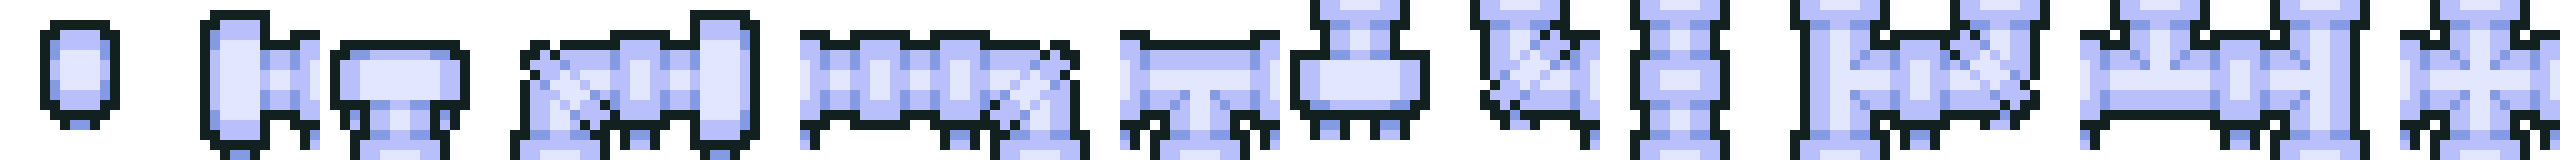
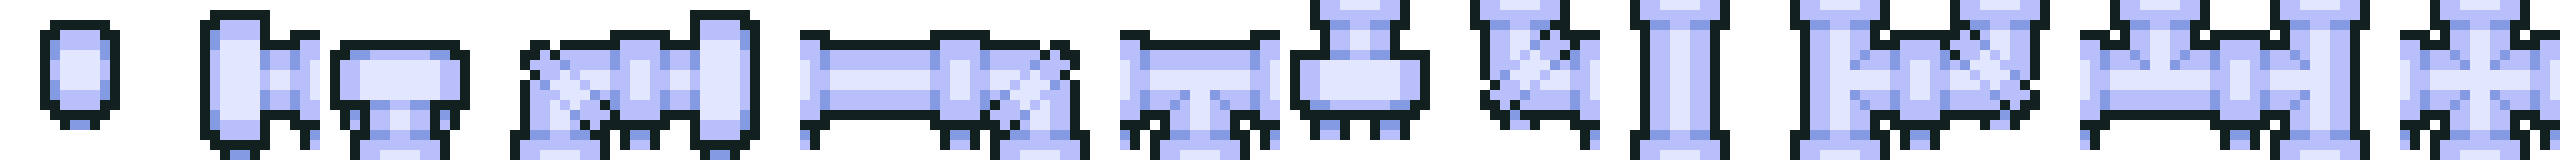
hey factory ui is basically done i think?
also fiddled with some colours :)

Changed region(s): [[0.3125, 0.1875, 0.375, 0.8125], [0.625, 0.3125, 0.6875, 0.6875]]

diff --git a/js/layers/factory_layer.js b/js/layers/factory_layer.js
@@ -1,13 +1,14 @@
-machines={
-  100:[
+fa_machine_picker={
+  1:[
     {name:"pipe"},
     {name:"crafter"},
     {name:"drill"},
+    {name:"port"},
   ]
 }
-for (const [rowi,row] of Object.entries(machines)){
+for (const [rowi,row] of Object.entries(fa_machine_picker)){
   for (const [i,machine] of Object.entries(row)){
-    machines[rowi+i]=machine
+    fa_machine_picker[`${rowi}0${Number(i)+1}`]=machine
   }
 }
 
@@ -51,10 +52,10 @@ class FA_machine {
     return machine
   }
   open(side){
-    return this.neighbor(side).IO[(side+2)%4]!=="none" && this.IO[side]!=="none"
+    return this.neighbor(side).io_port(side)!=="none" && this.IO[side]!=="none"
   }
   io_port(side){
-    return this.neighbor(side).IO[(side+2)%4]
+    return this.IO[(side+2)%4]
   }
   get_dir_sprite(){
     let spritepos=0
@@ -92,7 +93,6 @@ class FA_crafter extends FA_machine{
     ]
   }
 }
-
 class FA_drill extends FA_machine{
   constructor(pos){
     super(pos)
@@ -110,7 +110,6 @@ class FA_drill extends FA_machine{
     ]
   }
 }
-
 class FA_pipe extends FA_machine{
   constructor(pos){
     super(pos)
@@ -127,6 +126,52 @@ class FA_pipe extends FA_machine{
     return [
       {v:"IO",t:"block"},
     ]
+  }
+}
+class FA_port extends FA_machine{
+  constructor(pos){
+    super(pos)
+    this.name="port"
+    this.sprite="./port_E.png"
+    this.spritepos=0
+    this.symbol="P"+Math.floor(Math.random()*10)
+    this.IO=["open","open","open","open"]
+    this.mode="push"
+  }
+  modify_style(style){
+    style["background-position"]=`${-this.get_sprite()*100}% 0%`
+  }
+  config(){
+    return [
+      {v:"mode",t:"toggle",o:["pull","push"],c:["#249fde","#f9a31b"]},
+    ]
+  }
+  getside(){
+    let dirs=[]
+    if (this.pos%100==2){dirs.push(0)}
+    if (((this.pos/100)|0)==2){dirs.push(1)}
+    if (this.pos%100==12){dirs.push(2)}
+    if (((this.pos/100)|0)==12){dirs.push(3)}
+    if(dirs.length==1)return dirs.pop()
+    return 4
+  }
+  get_sprite(){
+    let spr=this.get_rot_sprite()
+    if(spr==16)return spr
+    spr+=this.mode=="push"?2:0
+    return spr
+  }
+  get_rot_sprite(){
+    switch (this.getside()){
+      case  0: return  1
+      case  1: return  5
+      case  2: return  9
+      case  3: return 13
+      default: return 16
+    }
+  }
+  io_port(side){
+    return (side+2)%4==this.getside()?"open":"none"
   }
 }
 
@@ -155,7 +200,7 @@ function fa_fixfactories(){
 }
 
 fa_machinenames={}
-for (const [_,machine] of Object.entries([FA_pipe,FA_crafter,FA_empty])){
+for (const [_,machine] of Object.entries([FA_pipe,FA_crafter,FA_drill,FA_port,FA_empty])){
   fa_machinenames[new machine().name]=machine
 }
 
@@ -179,10 +224,10 @@ function machineconfiglayout(){
           configlayout.push(["bad-toggle",[v,setting.o,setting.c,setting.cb],{"pointer-events":"auto"}])
           break
         case "io":
-          configlayout.push(["4way-bad-toggle",[[v+"[3]",v+"[0]",v+"[2]",v+"[1]"],["none","pull","push"],["gray","blue","orange"],function(){refreshneighbors("fa_designer",player.fa.selectedmachine.pos)}],{"pointer-events":"auto"}])
+          configlayout.push(["4way-bad-toggle",[[v+"[3]",v+"[0]",v+"[2]",v+"[1]"],["none","pull","push"],["#4a5462","#249fde","#f9a31b"],function(){refreshneighbors("fa_designer",player.fa.selectedmachine.pos)}],{"pointer-events":"auto"}])
           break
         case "block":
-          configlayout.push(["4way-bad-toggle",[[v+"[3]",v+"[0]",v+"[2]",v+"[1]"],["open","none"],["green","gray"],function(){refreshneighbors("fa_designer",player.fa.selectedmachine.pos)}],{"pointer-events":"auto"}])
+          configlayout.push(["4way-bad-toggle",[[v+"[3]",v+"[0]",v+"[2]",v+"[1]"],["open","none"],["#14a02e","#4a5462"],function(){refreshneighbors("fa_designer",player.fa.selectedmachine.pos)}],{"pointer-events":"auto"}])
           break
       }
     }
@@ -212,6 +257,8 @@ addLayer("fa",{
 
       toolmode:"destroy",
       selectedmachine:null,
+
+      placemachine:"pipe",
     }
   },
   update(diff){
@@ -240,6 +287,7 @@ addLayer("fa",{
         height:"30px",
         "max-height":"30px",
         "border-radius":"0px",
+        "border":"none",
         "margin": "0px",
         "background-color":data.col,
         "overflow": "hidden"
@@ -282,9 +330,9 @@ addLayer("fa",{
                   return {
                     "pointer-events": "none",
                     "position":"absolute",
-                    "left":`${accessvar("document.getElementById(\"fa_designer_grid\").getBoundingClientRect().left-document.getElementsByClassName(\"layer-tab\")[1].getBoundingClientRect().left",0)+(accessvar("player.fa.selectedmachine.pos",-100)       )%100*52-10}px`,
-                    "top":`${accessvar("document.getElementById(\"fa_designer_grid\").getBoundingClientRect().top -document.getElementsByClassName(\"layer-tab\")[1].getBoundingClientRect().top ",0)+((accessvar("player.fa.selectedmachine.pos",-10000)/100)|0)*52-10}px`,
-                    "background-color":"#22222288",
+                    "left":`${accessvar("document.getElementById(\"fa_designer_grid\").getBoundingClientRect().left-document.getElementsByClassName(\"layer-tab\")[1].getBoundingClientRect().left",0)+( accessvar("player.fa.selectedmachine.pos",  -100)%100   )*52-10}px`,
+                    "top": `${accessvar("document.getElementById(\"fa_designer_grid\").getBoundingClientRect().top -document.getElementsByClassName(\"layer-tab\")[1].getBoundingClientRect().top ",0)+((accessvar("player.fa.selectedmachine.pos",-10000)/100)|0)*52-10}px`,
+                    "background-color":"#4a546288",
                     "border-radius":"0px 10px 10px 10px",
                     "padding-top":"20px",
                     "padding-bottom":"20px",
@@ -297,8 +345,9 @@ addLayer("fa",{
             ],
           ],
           ["row",[
-            ["layer-proxy",["fa_machines",["grid"]]],
-            "clickables",
+            ["layer-proxy",["fa_machines",[
+              ["grid",[1,2,3]]
+            ]]],
           ]]
         ]]],
       ]
@@ -321,14 +370,11 @@ addLayer("fa_designer",{
     }
   },
   clickables:{
-    11: {
+    "rclicksetting": {
       canClick: true,
       onClick(){player.fa.toolmode=player.fa.toolmode=="config"?"destroy":"config"},
       style(){
         return {
-          "width":"70px",
-          "height":"70px",
-          "min-height":"0px",
           "background-image":'url("./tools_E.png")',
           "background-size":"auto 100%",
           "background-position":player.fa.toolmode=="destroy"?"100% 0%":"0% 0%"
@@ -345,9 +391,9 @@ addLayer("fa_designer",{
       onClick(){
         if (player.fa.selectedmachine){
           getGridData("fa",player.fa.pos).factory.create(player.fa.selectedmachine.pos,"empty")
+          refreshneighbors("fa_designer",player.fa.selectedmachine.pos)
           player.fa.selectedmachine=null
         }
-        refreshtile("fa_designer",id)
       },
       
       style(){
@@ -391,7 +437,7 @@ addLayer("fa_designer",{
         "background-color":col,
       }
       style["background-image"]=`url("${machine.sprite}")`
-      style["background-size"]="auto 100%"
+      style["background-size"]="cover"
       style["background-position"]=`${-machine.spritepos*100}% 0%`
       style["transition"]=`all .5s, background-position 1ms`
       if (machine.modify_style) {machine.modify_style(style)}
@@ -424,7 +470,7 @@ addLayer("fa_designer",{
 
       }else{
         let machine=getGridData("fa",player.fa.pos).factory.getmachine(id)
-        return machine.symbol
+        //return machine.symbol
       }
     },
     onClick(_,id){
@@ -435,7 +481,7 @@ addLayer("fa_designer",{
       if (Math.floor(id/100)==13 && Math.floor(player.fa.pos/100)<20)player.fa.pos+=100
       if (prevpos==player.fa.pos){
         if(getGridData("fa",player.fa.pos).factory.getmachine(id).name==="empty"){
-          getGridData("fa",player.fa.pos).factory.create(id,"pipe")
+          getGridData("fa",player.fa.pos).factory.create(id,player.fa.placemachine)
         }
       }
 
@@ -488,14 +534,36 @@ addLayer("fa_machines",{
   }},
   grid: {
     getStartData(){return 0},
-    cols: 5,
-    rows: 1,
-    getStyle(){
-      return {
+    cols: 7,
+    rows: 3,
+    onClick(_,id){
+      if (id==107){
+        return layers.fa_designer.clickables.rclicksetting.onClick()
+      }
+      if (fa_machine_picker[id]){
+        player.fa.placemachine=fa_machine_picker[id].name
+      }
+    },
+    getStyle(_,id){
+      let style= {
+        "background-color":"#b9bffb",
         "width":"70px",
         "height":"70px",
         "min-height":"0px",
+        "background-size":"cover",
+        "background-position":`-${id%100-1}00% 0%`,
       }
+      if (fa_machine_picker[id]){
+        style["background-image"]="url('./machines_E.png')"
+      }
+      if (id==107){
+        for (const [k,v] of Object.entries(layers.fa_designer.clickables.rclicksetting.style())){
+          style[k]=v
+        }
+      }
+      return style
+    },
+    getTitle(_,id){
     }
   }
 })

diff --git a/js/layers/circuit_layer.js b/js/layers/circuit_layer.js
@@ -146,7 +146,7 @@ class MA_port extends MA_component {
       bottom:         0%;
       left:           0%;
       right:          0%;
-      background-color:#22222244;
+      background-color:#4a546244;
       "></div>${this.port} ${
         this.mode=="I"?
         player.ma.inputports[this.port]?player.ma.inputports[this.port].index:".":
@@ -228,7 +228,7 @@ class MA_slate_base extends MA_component {
     position: absolute;
     right:5%;
     border-radius:10px;
-    background-color:#22222244;
+    background-color:#4a546244;
     min-width:30px;
     ">${this.outputcache[0]!==undefined?this.outputcache[0].toFraction():""}</div>
     <div style="width:100%;justify-content: center;display:flex">
@@ -237,7 +237,7 @@ class MA_slate_base extends MA_component {
     bottom:5%;
     text-align: center;
     border-radius:10px;
-    background-color:#22222244;
+    background-color:#4a546244;
     min-width:30px;
     ">${this.outputcache[1]!==undefined?this.outputcache[1].toFraction():""}</div>
     </div>
@@ -245,7 +245,7 @@ class MA_slate_base extends MA_component {
     position: absolute;
     left:5%;
     border-radius:10px;
-    background-color:#22222244;
+    background-color:#4a546244;
     min-width:30px;
     ">${this.outputcache[2]!==undefined?this.outputcache[2].toFraction():""}</div>
     <div style="width:100%;justify-content: center;display:flex">
@@ -257,7 +257,7 @@ class MA_slate_base extends MA_component {
     width: auto;
     text-align: center;
     border-radius:10px;
-    background-color:#22222244;
+    background-color:#4a546244;
     min-width:30px;
     ">${this.outputcache[3]!==undefined?this.outputcache[3].toFraction():""}</div>
     </div>
@@ -562,7 +562,7 @@ function ma_bubble(txt){
   <div style="
   margin-top:35%;
   border-radius:10px;
-  background-color:#22222244;
+  background-color:#4a546244;
   min-width:30px;
   ">${txt}</div>
   </div>
@@ -754,7 +754,7 @@ addLayer("pt",{
         "pointer-events":"auto",
         "border":"none",
       }:{
-        "background-color":"#222222",
+        "background-color":"#4a5462",
         "pointer-events":"none",
         "transform":"scale(0.9)"
       }
@@ -849,7 +849,7 @@ function ma_checkwin(){
             if (player.ma.error_message&&(id%100-1==player.ma.inputports.length+player.ma.error_port)){
               style["background-color"]="#880000"
             }else{
-              style["background-color"]="#222222"
+              style["background-color"]="#4a5462"
             }
           }
         }
@@ -1036,7 +1036,7 @@ function ma_setcomponent(x,y,type){
         let i=Math.floor(id/100)*5+id%100
         let bpname=player.blueprints.bporder[i]
         let style = {
-          "background-color":bpname?"#ff0000":"#222222",
+          "background-color":bpname?"#ff0000":"#4a5462",
           "border":"none",
         }
         if (player.blueprints.bpdata[bpname]){
@@ -1373,7 +1373,7 @@ addLayer("ma", {
         style.height="40px"
       }
       if(tbside||lrside){
-        style["background-color"]=data.mode==""?"#222222":(data.mode=="O"?"#eb7d34":"#3496eb")
+        style["background-color"]=data.mode==""?"#4a5462":(data.mode=="O"?"#eb7d34":"#3496eb")
       }else{
         if (data.component_type=="responsive cable"){
           let pos=`${-data.wire_sprite*100}% 50%`

diff --git a/js/components.js b/js/components.js
@@ -396,7 +396,23 @@ function loadVue() {
 		props: ['layer', 'data'],
 		template: `
     <div><gridable :layer = "layer" :data = "data" v-bind:style="tmp[layer].componentStyles.gridable"></gridable></div>
-	`
+    `,
+	})
+
+	Vue.component('grid-tiles', {
+		props: ['layer', 'data'],
+		template: `
+		<div v-if="tmp[layer].grid" class="upgTable" :id="layer+'_grid'">
+			<div v-for="row in (tmp[layer].grid.rows)" class="upgRow">
+				<div v-for="col in tmp[layer].grid.cols"><div v-if="run(layers[layer].grid.getUnlocked, layers[layer].grid, row*100+col)"
+					class="upgAlign" v-bind:style="{'margin': '1px',  'height': 'inherit',}">
+          <div v-if="data.includes(row*100+col)">
+  					<gridable :layer = "layer" :data = "row*100+col" v-bind:style="tmp[layer].componentStyles.gridable"></gridable>
+          </div>
+				</div></div>
+			</div>
+		</div>
+    `,
 	})
 
 	Vue.component('gridable', {
@@ -727,7 +743,7 @@ function loadVue() {
     
 		props: ['layer', 'data'],
 		template: `
-    <div style="margin-top:20px;margin-bottom:20px;font-size:0px;transform:rotate(45deg)">
+    <div style="margin-top:20px;margin-bottom:20px;padding:5px;font-size:0px;transform:rotate(45deg)">
 		<bad-toggle-base :layer="layer" :data="[data[0][0],data[1],data[2],data[3]]" :rotate="0"></bad-toggle-base>
 		<bad-toggle-base :layer="layer" :data="[data[0][1],data[1],data[2],data[3]]" :rotate="0"></bad-toggle-base><br>
 		<bad-toggle-base :layer="layer" :data="[data[0][2],data[1],data[2],data[3]]" :rotate="0"></bad-toggle-base>
